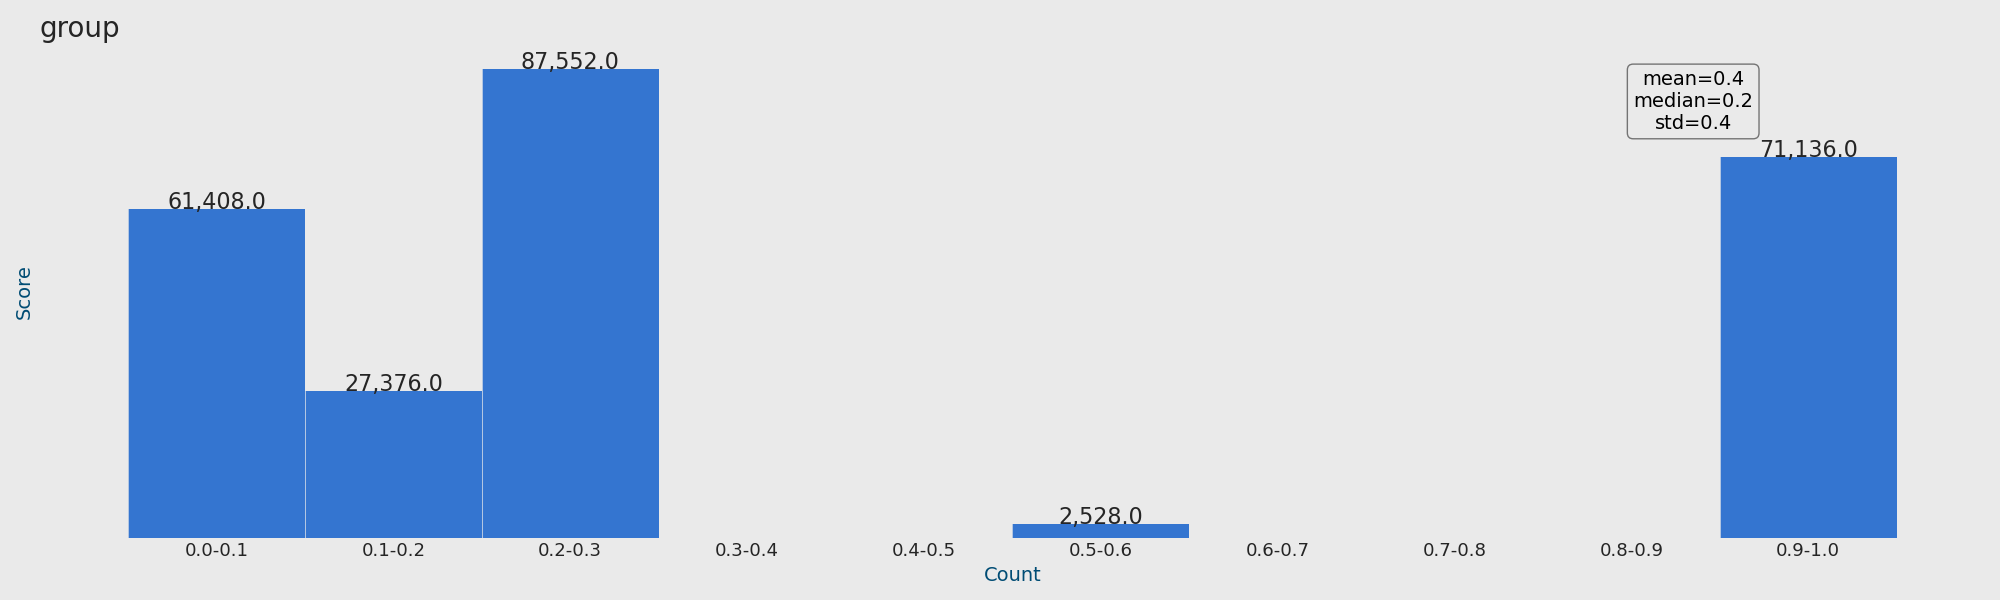
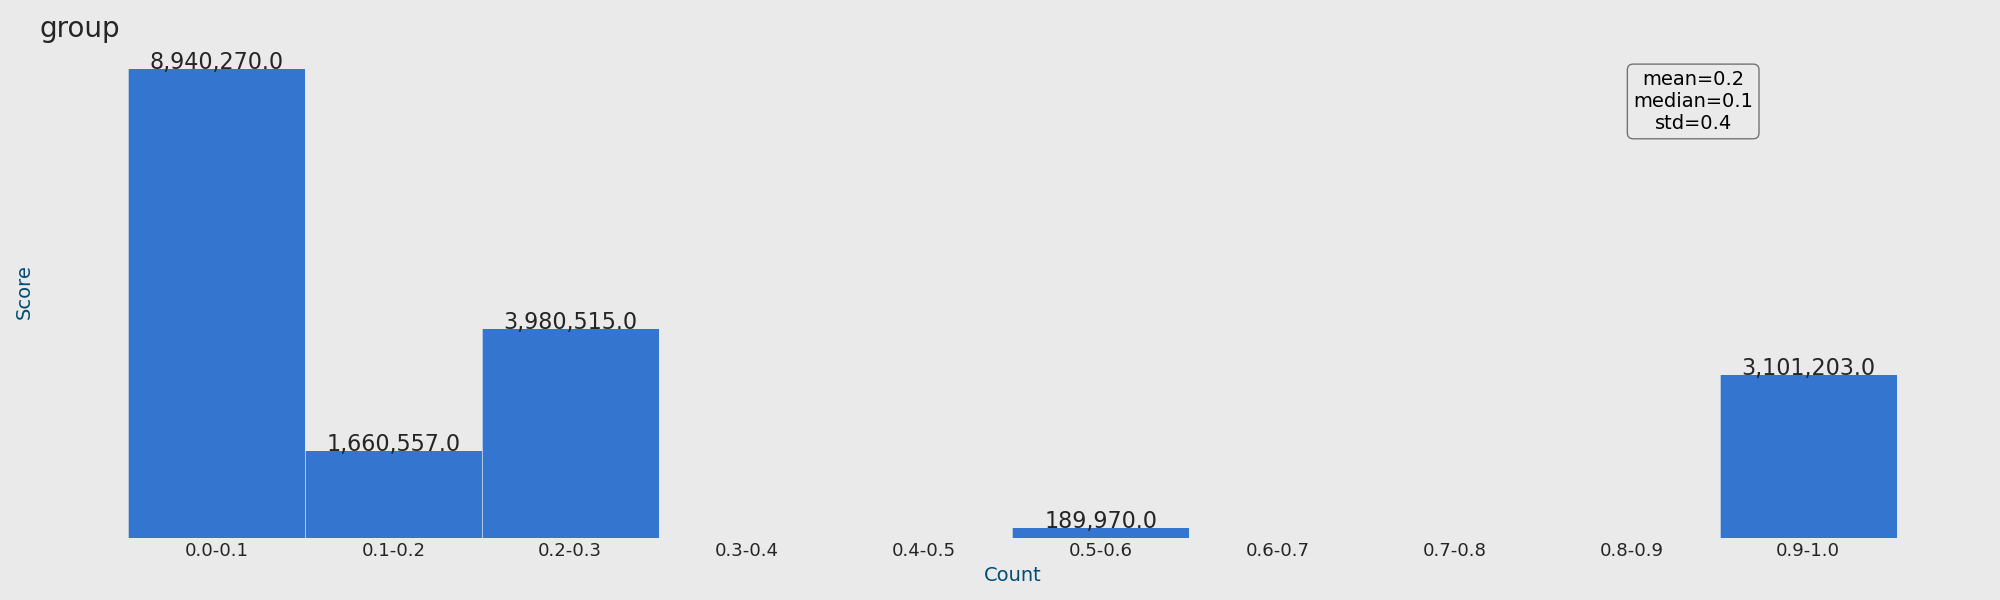
add report

diff --git a/main.py b/main.py
@@ -8,6 +8,8 @@ from matplotlib.ticker import AutoMinorLocator
 
 hw = pd.read_pickle('data/processed/hw_processed.pkl')
 lda = pd.read_pickle('data/processed/lda_processed.pkl')
+hw_raw = pd.read_csv('data/raw/HeroWeb Accounts.csv', delimiter=';')
+lda_raw = pd.read_csv('data/raw/Priority Customers.csv', delimiter=';')
 scores = pd.read_pickle('data/generated/scores.pkl')
 
 
@@ -18,49 +20,20 @@ def validate_strings(df):
     return df
 
 
-hw = validate_strings(hw)
-lda = validate_strings(lda)
-
-
-thresholds = {'email': 0,
-              'company_name': 0,
-              'group': 0,
-              'phone': 0,
-              'city': 0,
-              'state': 0,
-              'zip': 0,
-              'country': 0,
-              'name': 0,
-              'address': 0,
-              }
-
-multipliers = {'email': 1,
-               'company_name': 1,
-               'group': 1,
-               'phone': 1,
-               'city': 1,
-               'state': 1,
-               'zip': 1,
-               'country': 1,
-               'name': 1,
-               'address': 1,
-               }
-
-
 def plot_distribution(x, title='No title', range_=None):
-    facecolor = '#EAEAEA'
+    face_color = '#EAEAEA'
     color_bars = '#3475D0'
     txt_color1 = '#252525'
     txt_color2 = '#004C74'
 
-    fig, ax = plt.subplots(1, figsize=(20, 6), facecolor=facecolor)
-    ax.set_facecolor(facecolor)
+    fig, ax = plt.subplots(1, figsize=(20, 6), facecolor=face_color)
+    ax.set_facecolor(face_color)
     n, bins, patches = plt.hist(x, color=color_bars, bins=10, range=range_)
 
     # grid
     minor_locator = AutoMinorLocator(2)
     plt.gca().xaxis.set_minor_locator(minor_locator)
-    plt.grid(which='minor', color=facecolor, lw=0.5)
+    plt.grid(which='minor', color=face_color, lw=0.5)
     xticks = [(bins[idx + 1] + value) / 2 for idx, value in enumerate(bins[:-1])]
     xticks_labels = [f"{round(value, 1)}-{round(bins[idx + 1], 1)}" for idx, value in enumerate(bins[:-1])]
     plt.xticks(xticks, labels=xticks_labels, c=txt_color1, fontsize=13)
@@ -72,11 +45,11 @@ def plot_distribution(x, title='No title', range_=None):
 
     text_str = '\n'.join((
         f'mean={round(x.mean(), 1)}',
-        f'median={round(np.median(x), 1)}',
+        f'median={round(float(np.median(x)), 1)}',
         f'std={round(x.std(), 1)}',))
 
     # these are matplotlib.patch.Patch properties
-    props = dict(boxstyle='round', facecolor=facecolor, alpha=0.5)
+    props = dict(boxstyle='round', facecolor=face_color, alpha=0.5)
 
     # place a text box in upper left in axes coordinates
     ax.text(0.85, 0.95, text_str, transform=ax.transAxes, fontsize=14,
@@ -95,7 +68,7 @@ def plot_distribution(x, title='No title', range_=None):
     plt.xlabel('Count', c=txt_color2, fontsize=14)
     plt.ylabel('Score', c=txt_color2, fontsize=14)
     plt.tight_layout()
-    plt.savefig(f'plots/{title}.png', facecolor=facecolor)
+    plt.savefig(f'plots/{title}.png', facecolor=face_color)
     plt.clf()
     print(f'saved plot: "{title}.png"')
 
@@ -109,6 +82,36 @@ def plot_all(df):
             plot_distribution(df[col], col)
 
 
+hw = validate_strings(hw)
+lda = validate_strings(lda)
+hw_raw = validate_strings(hw_raw)
+lda_raw = validate_strings(lda_raw)
+
+thresholds = {'email': 0.5,
+              'company_name': 0,
+              'group': 0.25,
+              'phone': 0.25,
+              'city': 0.5,
+              'state': 0.5,
+              'zip': 0,
+              'country': 0.5,
+              'name': 0,
+              'address': 0,
+              }
+
+multipliers = {'email': 1,
+               'company_name': 1,
+               'group': 0.1,
+               'phone': 1,
+               'city': 0.5,
+               'state': 0.25,
+               'zip': 1,
+               'country': 0.25,
+               'name': 1,
+               'address': 0.8,
+               }
+
+
 def score(row):
     res = 0
     for col in row.index:
@@ -117,10 +120,12 @@ def score(row):
     return res
 
 
-def calc_eta(df, test_size=1000):
+def calc_eta(df, test_size=10000):
+    slice_ = df.loc[:test_size].copy()
     full_length = len(df)
     s_time = time()
-    df['temp'] = df.loc[:test_size].apply(lambda x: score(x), axis=1)
+
+    slice_['temp'] = slice_.apply(lambda x: score(x), axis=1)
     delta = time() - s_time
     eta = timedelta(seconds=int(delta / test_size * full_length))
     now = datetime.now()
@@ -130,14 +135,70 @@ def calc_eta(df, test_size=1000):
     print(f'ETA: {eta} | done at: {time_eta}')
 
 
-def calc_scores(df, column_name='score'):
+def calc_scores(df, column_name='score', save=False):
     df[column_name] = df.apply(lambda x: score(x), axis=1)
+    if save:
+        scores.to_pickle('data/generated/scores.pkl')
     return df
 
 
 calc_eta(scores)
-scores = calc_scores(scores)
+scores = calc_scores(scores, save=False)
+
+description = scores.describe()
 
 plot_all(scores)
 
-# scores.to_pickle('data/generated/scores.pkl')
+
+def match_filter(min_score, full_match_at=1, all_match: list[str] = None, some_match: list[str] = None):
+    mask = scores['score'] >= min_score
+
+    if all_match is not None:
+        for col in all_match:
+            mask = mask & scores[col] >= full_match_at
+
+    if some_match is not None:
+        temp_masks = []
+        for col in some_match:
+            temp_masks.append(scores[col] >= full_match_at)
+        temp_mask = temp_masks[0]
+        for m in temp_masks[1:]:
+            temp_mask = temp_mask | m
+
+        mask = mask & temp_mask
+
+    return mask
+
+
+matches = scores[match_filter(5)]
+
+
+def evaluate_matches(df):
+    verified = []
+    verified_false = []
+    non_verified = []
+    for i in df.index:
+        match = df.loc[i]
+        hw_index = match['index1']
+        lda_index = match['index2']
+        if pd.notnull(lda_raw.loc[lda_index, 'HW Account']):
+            if lda_raw.loc[lda_index, 'HW Account'] == hw_raw.loc[hw_index, 'account_id']:
+                verified.append(i)
+            else:
+                verified_false.append(i)
+        else:
+            non_verified.append(i)
+
+    num_true_matches = len(lda_raw.loc[pd.notnull(lda_raw['HW Account'])])
+    print('====================== REPORT ======================')
+    print(f'total matches: {len(df)}')
+    print(f'total true matches: {num_true_matches}')
+    print(f'verified matches: {len(verified)}')
+    print(f'verified false matches: {len(verified_false)}')
+    print(f'non verified matches: {len(non_verified)}')
+    print(f'of total true matches found: {round(len(verified)/num_true_matches*100, 2)}%')
+    print(f'verified share: {round(len(verified)/len(df)*100, 2)}%')
+    print(f'false share: {round(len(verified_false) / len(df) * 100, 2)}%')
+
+
+

diff --git a/compare.py b/compare.py
@@ -4,10 +4,10 @@ import textdistance as td
 from time import time
 import multiprocessing as mp
 import numpy as np
-from datetime import timedelta
+from datetime import timedelta, datetime
 
-hw = pd.read_csv('data/processed/hw_processed.csv')
-lda = pd.read_csv('data/processed/lda_processed.csv')
+hw = pd.read_pickle('data/processed/hw_processed.pkl')
+lda = pd.read_pickle('data/processed/lda_processed.pkl')
 
 
 def validate_strings(df):
@@ -95,7 +95,8 @@ compare_method = {
     'state': td.levenshtein.normalized_similarity,
     'zip': td.levenshtein.normalized_similarity,
     'country': td.levenshtein.normalized_similarity,
-    'phone': td.levenshtein.normalized_similarity
+    'phone': td.levenshtein.normalized_similarity,
+    'group': td.levenshtein.normalized_similarity
 }
 
 
@@ -154,13 +155,16 @@ def worker(df1, df2, links, res_dict, n_proc):
 
         if n_proc == 0:
             percent_done = round(counter / len(links) * 100, 5)
-            # percent_done = counter / len(links) * 100
             if percent_done in show_percents:
                 delta = int(time() - s_time)
                 run_time = str(timedelta(seconds=delta))
                 seconds = int(delta / percent_done * (100 - percent_done))
-                eta = str(timedelta(seconds=seconds))
-                print(f'finished: {round(percent_done, 1)}% | run time: {run_time} | ETA: {eta}')
+                eta = timedelta(seconds=seconds)
+                now = datetime.now()
+                time_eta = (datetime.now() + eta).replace(microsecond=0)
+                if now.day == time_eta.day and now.month == time_eta.month:
+                    time_eta = str(time_eta)[11:]
+                print(f'finished: {round(percent_done, 1)}% | run time: {run_time} | ETA: {eta} | done at: {time_eta}')
 
     res_scores['total'] = res_scores.drop(columns=['index1', 'index2']).sum(axis=1)
     res_scores = res_scores.astype(float)
@@ -191,4 +195,5 @@ if __name__ == "__main__":
     frames = [return_dict[i] for i in range(proc_num)]
     scores = pd.concat(frames, ignore_index=True)
     scores.to_pickle('data/generated/scores.pkl')
+    print('finished all operations')
 #     description = scores.describe()
